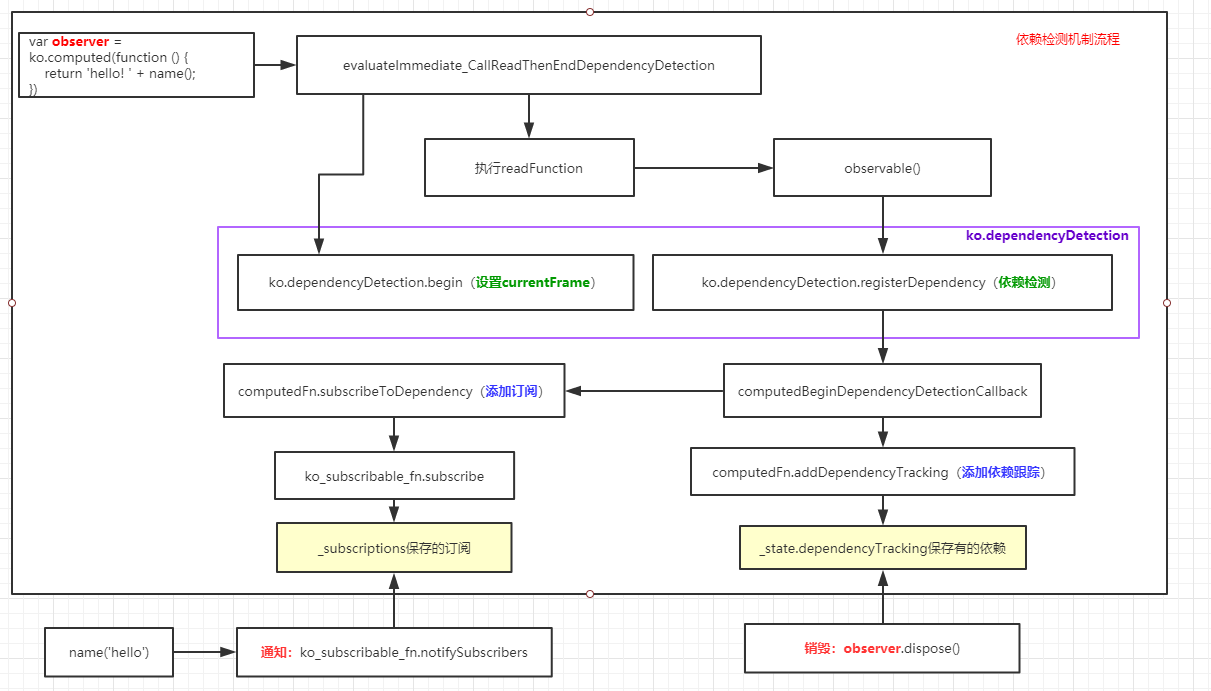
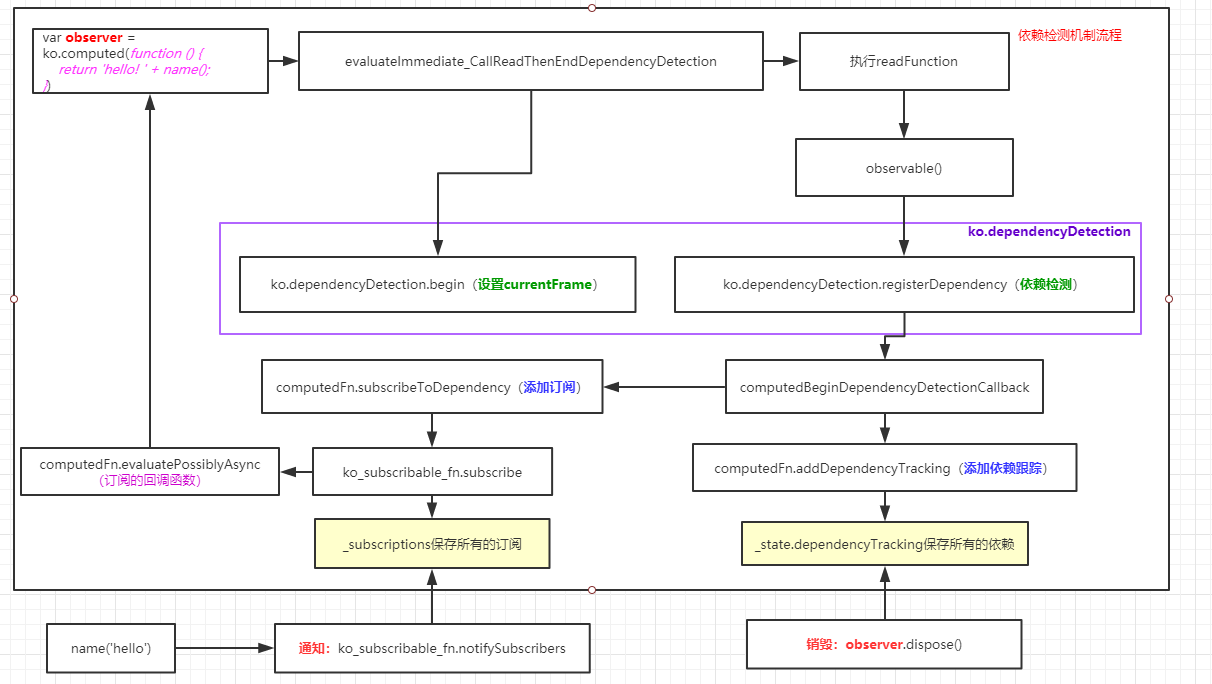
[M]knockout.md

diff --git a/knockout/第 4 章：ko.applyBindings.md b/knockout/第 4 章：ko.applyBindings.md
@@ -6,7 +6,9 @@
 - [2 ko.bindingContext:生成绑定上下文](#2-kobindingcontext%E7%94%9F%E6%88%90%E7%BB%91%E5%AE%9A%E4%B8%8A%E4%B8%8B%E6%96%87)
   - [2.1 dataItemOrAccessor是普通对象的情况](#21-dataitemoraccessor%E6%98%AF%E6%99%AE%E9%80%9A%E5%AF%B9%E8%B1%A1%E7%9A%84%E6%83%85%E5%86%B5)
   - [2.2 dataItemOrAccessor是observable对象的情况](#22-dataitemoraccessor%E6%98%AFobservable%E5%AF%B9%E8%B1%A1%E7%9A%84%E6%83%85%E5%86%B5)
-- [3 applyBindingsToNodeAndDescendantsInternal:dom与vm的绑定入口](#3-applybindingstonodeanddescendantsinternaldom%E4%B8%8Evm%E7%9A%84%E7%BB%91%E5%AE%9A%E5%85%A5%E5%8F%A3)
+    - [2.2.1 subscribable.isActive()的计算](#221-subscribableisactive%E7%9A%84%E8%AE%A1%E7%AE%97)
+    - [2.2.2 subscribable._addNode的作用？](#222-subscribable_addnode%E7%9A%84%E4%BD%9C%E7%94%A8)
+- [3 applyBindingsToNodeAndDescendantsInternal：dom与vm的绑定入口](#3-applybindingstonodeanddescendantsinternaldom%E4%B8%8Evm%E7%9A%84%E7%BB%91%E5%AE%9A%E5%85%A5%E5%8F%A3)
 - [4 applyBindingsToNodeInternal（dom与vm绑定的核心方法）](#4-applybindingstonodeinternaldom%E4%B8%8Evm%E7%BB%91%E5%AE%9A%E7%9A%84%E6%A0%B8%E5%BF%83%E6%96%B9%E6%B3%95)
   - [4.1 判断当前节点是否进行过ko绑定](#41-%E5%88%A4%E6%96%AD%E5%BD%93%E5%89%8D%E8%8A%82%E7%82%B9%E6%98%AF%E5%90%A6%E8%BF%9B%E8%A1%8C%E8%BF%87ko%E7%BB%91%E5%AE%9A)
   - [4.2 获取'绑定字符串对象'](#42-%E8%8E%B7%E5%8F%96%E7%BB%91%E5%AE%9A%E5%AD%97%E7%AC%A6%E4%B8%B2%E5%AF%B9%E8%B1%A1)
@@ -16,6 +18,7 @@
     - [4.5.3 topologicalSortBindings](#453-topologicalsortbindings)
     - [4.5.4 validateThatBindingIsAllowedForVirtualElements](#454-validatethatbindingisallowedforvirtualelements)
 - [5 applyBindingsToDescendantsInternal](#5-applybindingstodescendantsinternal)
+- [6 总结](#6-%E6%80%BB%E7%BB%93)
 
 <!-- END doctoc generated TOC please keep comment here to allow auto update -->
 
@@ -379,7 +382,7 @@ function applyBindingsToNodeInternal(node, sourceBindings, bindingContext, bindi
             bindingKey = bindingKeyAndHandler.key;
 
         if (node.nodeType === 8) { // 如果是注释元素，则需要验证注释元素的绑定处理器是否允许执行
-            validateThatBindingIsAllowedForVirtualElements(bindingKey);
+            validateThatBindingIsAllowedForVirtualElements(bindingKey); // 见 4.5.4
         }
 
         try {
@@ -404,7 +407,7 @@ function applyBindingsToNodeInternal(node, sourceBindings, bindingContext, bindi
 存储关联的绑定处理器（一个dom节点可能会绑定多个绑定处理器
  ![avatar](../images/knockout/order_bindings.png)
   
-**ko.bindingHandlers[xxx].init()**
+**ko.bindingHandlers[xxx].init()**<br/>
 单纯的初始化，ko.dependencyDetection.ignore抑制依赖性检测，单纯的执行的 ko.bindingHandlers[xxx].init()，不订阅不依赖，单纯的初始化
 ```
 ko.dependencyDetection.ignore(function() {
@@ -434,26 +437,33 @@ function() {
     handlerUpdateFn(node, getValueAccessor(bindingKey), allBindings, bindingContext['$data'], bindingContext);
 }
 ``` 
-1. 这个函数是一个**闭包**：handlerUpdateFn(node, getValueAccessor(bindingKey), allBindings, bindingContext['$data'], bindingContext);这里面的参数全部被记录下来了；
-2. 为什么要在这里强调下闭包呢？好，我问个问题哈：当由于依赖更新导致handlerUpdateFn被执行，那么这些参数都指向谁？如果这里不是闭包，会有什么样的后果呢？
-3. 这里得出：dom节点是如何与绑定的observable对象进行绑定的，observable对象的更新又是如何更新dom节点的 
-4. 因为这里比较重要，下面案例验证下闭包
+1. 闭包使得 handlerUpdateFn(node, getValueAccessor(bindingKey), allBindings, bindingContext['$data'], bindingContext); 这里面的参数全部被记录下来了； 
+2. observable对象的更新又是如何更新dom节点的 ？通常在handlerUpdateFn中做的第一件事情如下，如果是observable对象，则会执行该observable，那么便会添加依赖订阅和依赖。
+```
+var bindingValue = ko.utils.unwrapObservable(valueAccessor());
+
+ko.utils = (function () {
+    unwrapObservable: function (value) {
+        return ko.isObservable(value) ? value() : value;
+    },
+})();
+```
+3. 因为这里比较重要，下面案例验证下闭包
 ```
 //html
-<div data-bind="text: displayName"></div>
+<div data-bind="text: name"></div>
 //js
 var name = ko.observable('init-value');
 setTimeout(function () {
-    name('update-john')
-
-     }, 1000)
+    // 发布通知 -> computedFn.evaluatePossiblyAsync（添加订阅时的回调函数） 
+    //          -> computedObservable.evaluateImmediate -> state.readFunction()
+    name('update-john'); 
+}, 1000)
 ``` 
 ![avatar](../images/knockout/handler_update_closure.png)
         
 
-### 4.5.3 topologicalSortBindings
-
-
+### 4.5.3 topologicalSortBindings 
 ```
 function topologicalSortBindings(bindings) { //深度优先遍历
     // Depth-first sort
@@ -489,10 +499,8 @@ function topologicalSortBindings(bindings) { //深度优先遍历
 }
 ```
 
-
 ### 4.5.4 validateThatBindingIsAllowedForVirtualElements
-
-
+[用法参考](https://knockoutjs.com/documentation/custom-bindings-for-virtual-elements.html)
 ```
 function validateThatBindingIsAllowedForVirtualElements(bindingName) {
     var validator = ko.virtualElements.allowedBindings[bindingName];
@@ -503,6 +511,8 @@ function validateThatBindingIsAllowedForVirtualElements(bindingName) {
  
 
 # 5 applyBindingsToDescendantsInternal
-递归 -> applyBindingsToNodeAndDescendantsInternal（2.2.2）
-
+递归 -> applyBindingsToNodeAndDescendantsInternal
 注意 ko.bindingProvider.instance.preprocessNode 的执行
+
+# 6 总结
+![avatar](../images/knockout/ko_applybindings-prosess.png)

diff --git a/knockout/第 3 章：ko的依赖检测机制.md b/knockout/第 3 章：ko的依赖检测机制.md
@@ -18,6 +18,7 @@
   - [3.6 小结](#36-%E5%B0%8F%E7%BB%93)
 - [4 补充](#4-%E8%A1%A5%E5%85%85)
 - [4.1 pureComputed](#41-purecomputed)
+- [4.2 computedFn.evaluatePossiblyAsync](#42-computedfnevaluatepossiblyasync)
 - [5 总结](#5-%E6%80%BB%E7%BB%93)
 
 <!-- END doctoc generated TOC please keep comment here to allow auto update -->
@@ -406,7 +407,29 @@ var b = ko.computed(function () {
 # 4 补充
 # 4.1 pureComputed
 
+# 4.2 computedFn.evaluatePossiblyAsync
+注意3.3.2中添加订阅的回调函数并是不readFunction，而是computedFn.evaluatePossiblyAsync
+```
+var computedFn = {
+    evaluatePossiblyAsync: function () {
+        var computedObservable = this,
+            throttleEvaluationTimeout = computedObservable['throttleEvaluation'];
+        if (throttleEvaluationTimeout && throttleEvaluationTimeout >= 0) {
+            clearTimeout(this[computedState].evaluationTimeoutInstance);
+            this[computedState].evaluationTimeoutInstance = ko.utils.setTimeout(function () {
+                computedObservable.evaluateImmediate(true /*notifyChange*/);
+            }, throttleEvaluationTimeout);
+        } else if (computedObservable._evalDelayed) {
+            computedObservable._evalDelayed();
+        } else {
+            computedObservable.evaluateImmediate(true /*notifyChange*/);
+        }
+    },
+}
+```
+
+
 # 5 总结
 ![avatar](../images/knockout/ko_dependent_test.png)
 
-1. 发生依赖检测的关键在于ko.computed会去设置currentFrame
+1. 发生依赖检测的关键在于ko.computed会去设置currentFrame 
